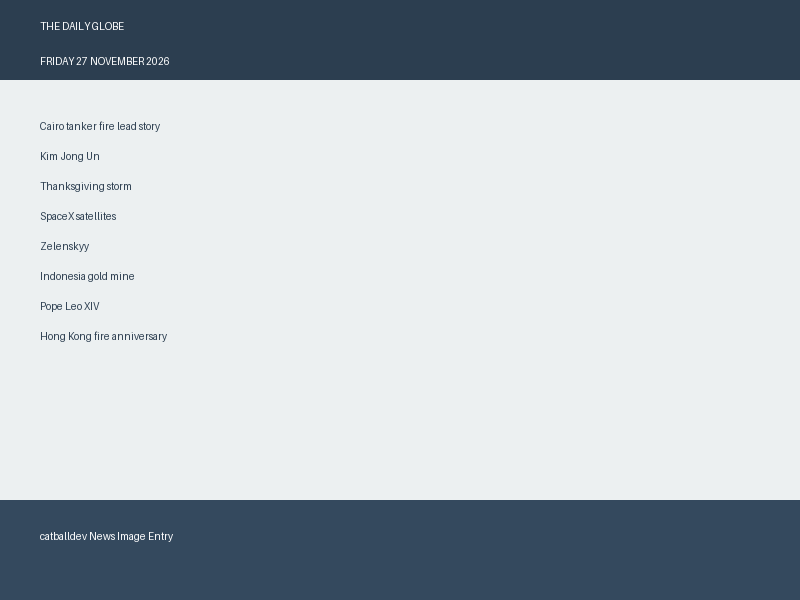
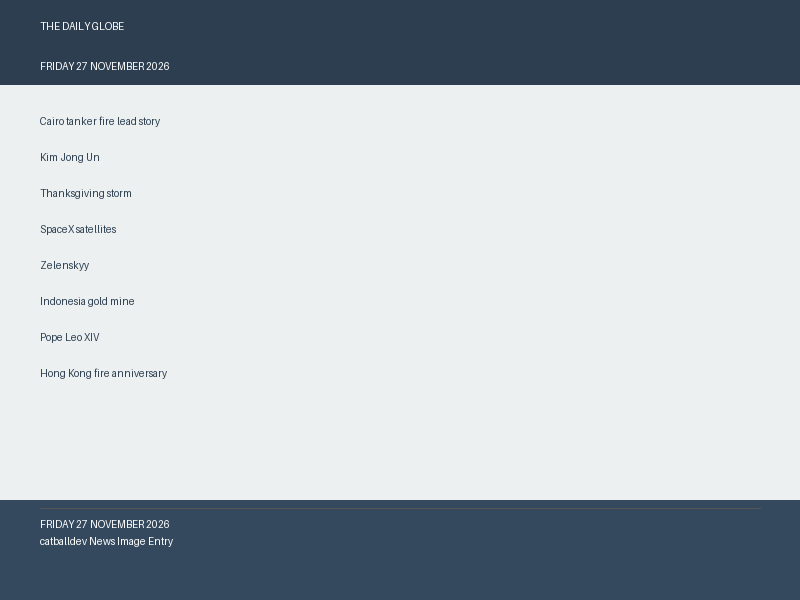
Refine front-page layout and footer

diff --git a/main.py b/main.py
@@ -3,20 +3,33 @@
 
 import os
 import shutil
+import sys
 from pathlib import Path
 
-# Locate entry.png next to main.py itself
-source = Path(__file__).resolve().parent / "entry.png"
+def print_usage():
+    print("Usage: python3 main.py [--help]")
+    print("  --help    Show this help message and exit.")
 
-# Output directory from environment variable
-output_dir = os.environ.get("MAKEFUN_OUTPUT_DIR", "/output")
-output_path = Path(output_dir)
+def main():
+    if len(sys.argv) > 1 and sys.argv[1] == "--help":
+        print_usage()
+        sys.exit(0)
 
-# Create output directory if needed
-output_path.mkdir(parents=True, exist_ok=True)
+    # Locate entry.png next to main.py itself
+    source = Path(__file__).resolve().parent / "entry.png"
 
-# Copy entry.png to <output dir>/entry.png (byte-for-byte copy)
-destination = output_path / "entry.png"
-shutil.copyfile(source, destination)
+    # Output directory from environment variable
+    output_dir = os.environ.get("MAKEFUN_OUTPUT_DIR", "/output")
+    output_path = Path(output_dir)
 
-print(f"Copied {source} to {destination}")
+    # Create output directory if needed
+    output_path.mkdir(parents=True, exist_ok=True)
+
+    # Copy entry.png to <output dir>/entry.png (byte-for-byte copy)
+    destination = output_path / "entry.png"
+    shutil.copyfile(source, destination)
+
+    print(f"Copied {source} to {destination}")
+
+if __name__ == "__main__":
+    main()

diff --git a/draw_entry.py b/draw_entry.py
@@ -9,14 +9,14 @@ img = Image.new('RGB', (width, height), color='white')
 draw = ImageDraw.Draw(img)
 
 # Draw masthead "THE DAILY GLOBE"
-draw.rectangle([0, 0, width, 80], fill='#2c3e50')
+draw.rectangle([0, 0, width, 85], fill='#2c3e50')
 draw.text((40, 20), "THE DAILY GLOBE", fill='white', font=None, size=36)
 
 # Draw date "FRIDAY 27 NOVEMBER 2026"
-draw.text((40, 55), "FRIDAY 27 NOVEMBER 2026", fill='white', font=None, size=16)
+draw.text((40, 60), "FRIDAY 27 NOVEMBER 2026", fill='white', font=None, size=16)
 
 # Draw news content area
-draw.rectangle([0, 80, width, 500], fill='#ecf0f1')
+draw.rectangle([0, 85, width, 500], fill='#ecf0f1')
 
 # Draw eight headlines
 headlines = [
@@ -30,14 +30,18 @@ headlines = [
     "Hong Kong fire anniversary"
 ]
 
-y_pos = 120
+y_pos = 115
 for headline in headlines:
     draw.text((40, y_pos), headline, fill='#2c3e50', font=None, size=16)
-    y_pos += 30
+    y_pos += 36
 
 # Draw footer
 draw.rectangle([0, 500, width, 600], fill='#34495e')
-draw.text((40, 530), "catballdev News Image Entry", fill='white', font=None, size=14)
+# Thin rule above footer content
+draw.line([(40, 508), (760, 508)], fill='#555555', width=1)
+# Footer text in smaller font
+draw.text((40, 518), "FRIDAY 27 NOVEMBER 2026", fill='white', font=None, size=12)
+draw.text((40, 535), "catballdev News Image Entry", fill='white', font=None, size=12)
 
 # Save the image
 img.save('entry.png')
